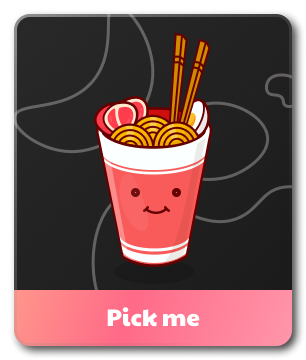
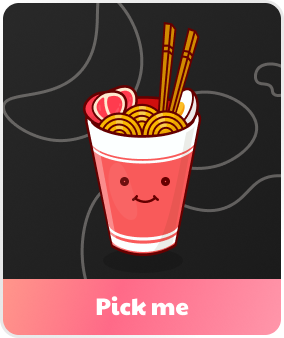
Change noodles image in Infomation Screen

diff --git a/src/components/ButtonSelectNoodle.js b/src/components/ButtonSelectNoodle.js
@@ -25,7 +25,8 @@ export default ButtonSelectNoodle
 
 const styles = StyleSheet.create({
     cupNoodle: {
-        width: 110,
-        height: 131
+        marginTop: 10,
+        width: 100,
+        height: 121
     }
 })
